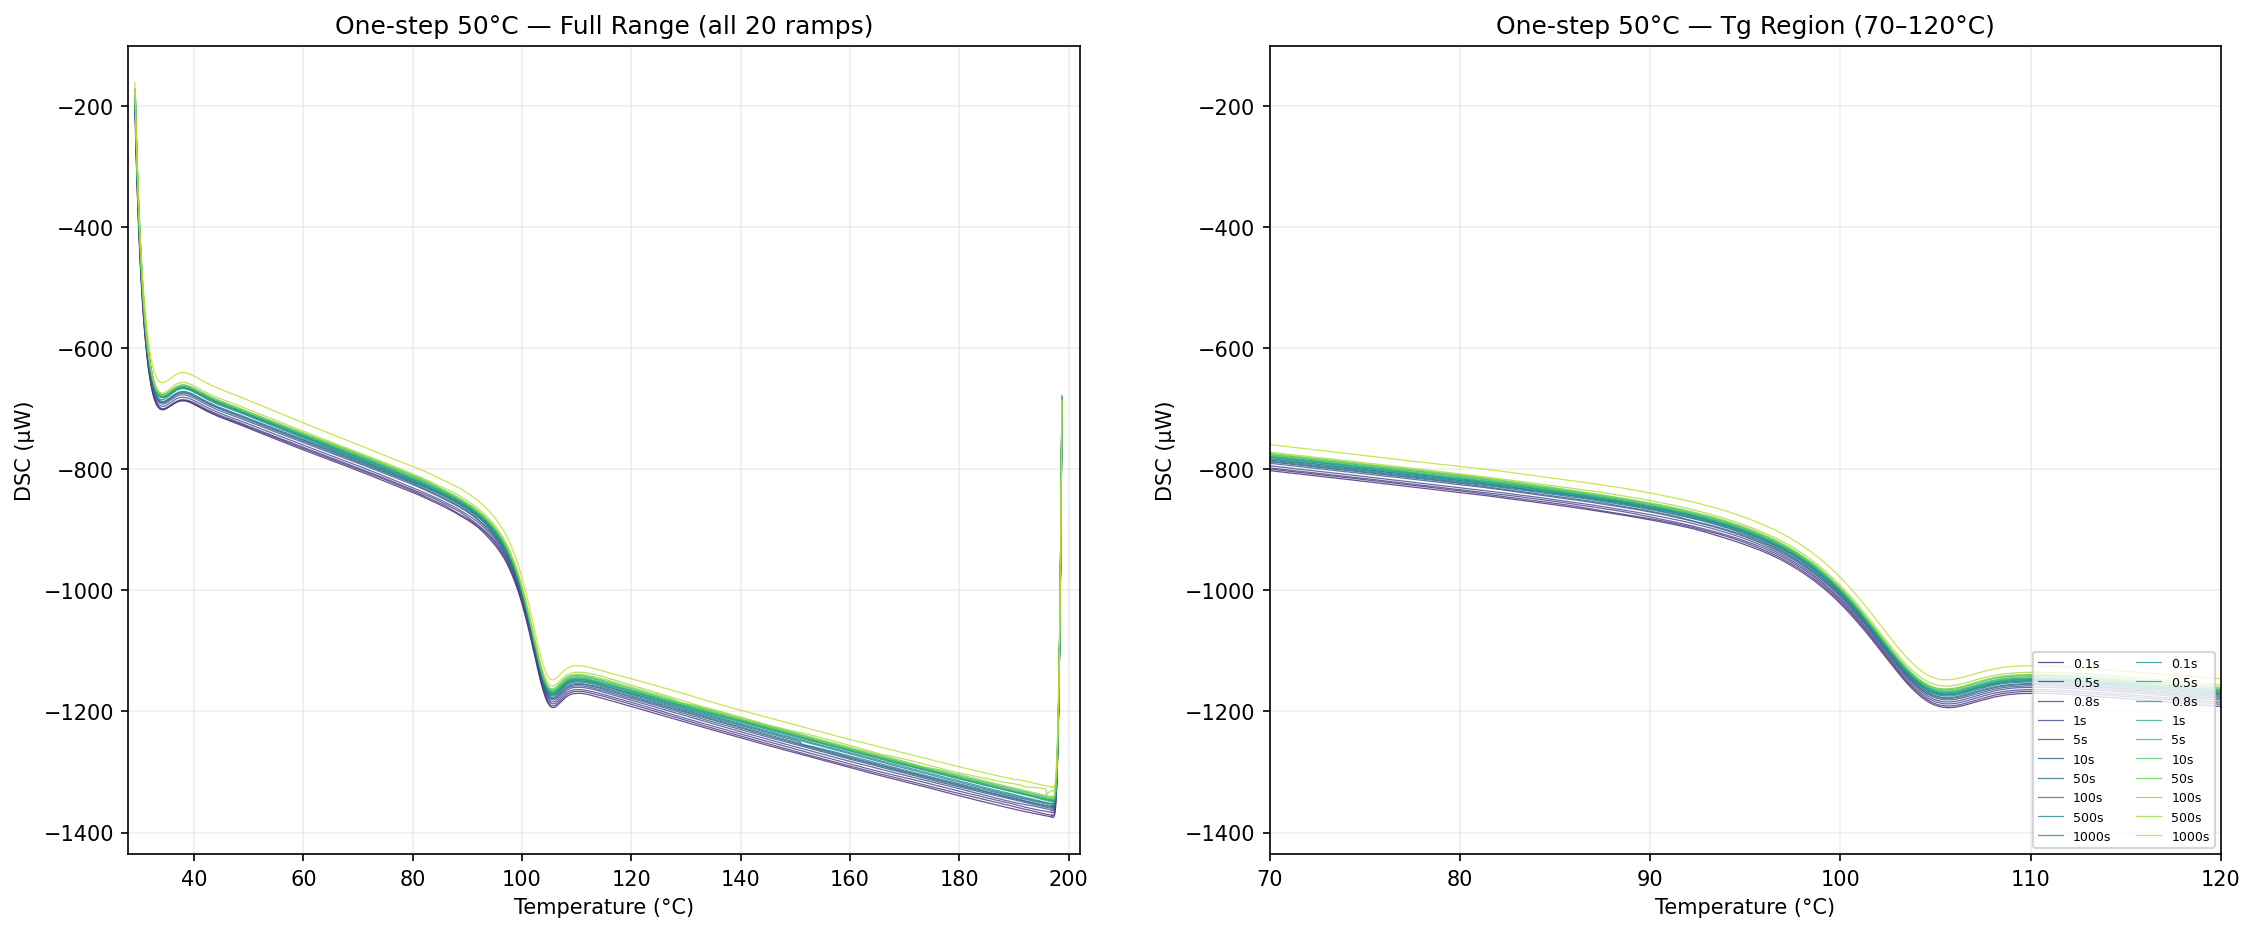
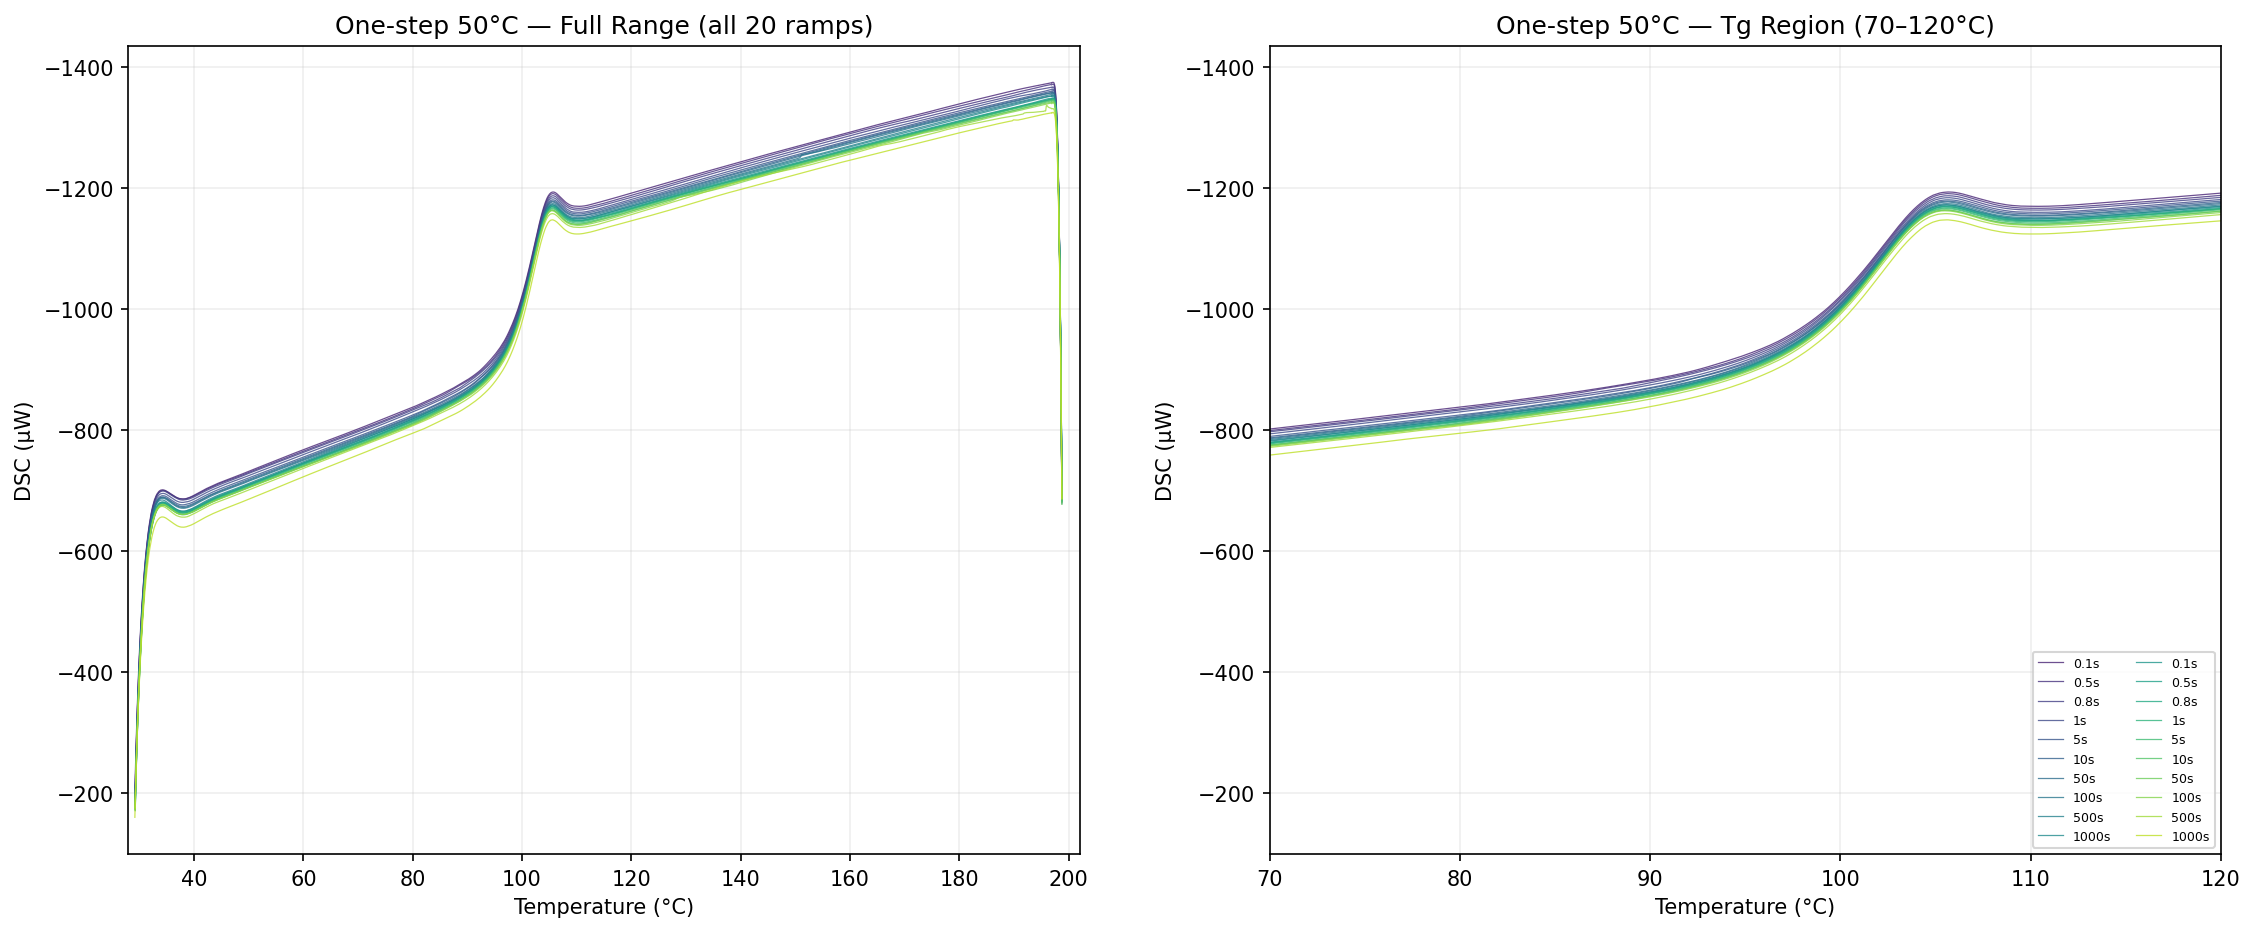
Fix reference state: use one-step 70°C 0.1s as as-cooled reference for all experiments; invert y-axis for DSC convention

diff --git a/src/export_enthalpy.py b/src/export_enthalpy.py
@@ -124,7 +124,26 @@ def find_liquid_onset(T_seg, DSC_seg, T_liq_fit_lo=110, T_liq_fit_hi=160, T_tg_l
     return np.nan
 
 
-def process_onestep(data_file, sheet, T_anneal, label, interp_empty):
+def compute_reference_integral(data_file, sheet, interp_empty):
+    """Compute reference integral from one-step 70°C ramp 1 (0.1s, as-cooled)."""
+    exp_data, _ = load_dsc_experiment(data_file, sheet=sheet)
+    T_exp = exp_data['Temp'].values
+    DSC_exp = exp_data['DSC'].values
+    t_exp = exp_data['Time'].values
+    ramps = detect_heating_ramps(T_exp, t_exp)
+    s, e = ramps[0]
+    T_seg = T_exp[s:e + 1]
+    DSC_seg = DSC_exp[s:e + 1]
+    T_onset = find_liquid_onset(T_seg, DSC_seg)
+    interp_dsc = interp1d(T_seg, DSC_seg, kind='linear', bounds_error=False, fill_value='extrapolate')
+    T_grid = np.arange(T_INT_LOW, T_onset + 0.01, 0.1)
+    delta_DSC = interp_dsc(T_grid) - interp_empty(T_grid)
+    ref_integral = trapezoid(delta_DSC, T_grid)
+    print(f"  Reference (one-step 70°C, ramp 1): integral={ref_integral:.2f}, T_onset={T_onset:.2f}°C")
+    return ref_integral
+
+
+def process_onestep(data_file, sheet, T_anneal, label, interp_empty, ref_integral):
     """Process one-step annealing and return enriched DataFrame."""
     exp_data, program = load_dsc_experiment(data_file, sheet=sheet)
     T_exp = exp_data['Temp'].values
@@ -180,11 +199,7 @@ def process_onestep(data_file, sheet, T_anneal, label, interp_empty):
             all_integrals.append(np.nan)
 
     integrals = np.array(all_integrals)
-    # Δh_i = (integral_i − integral_ref) × CONV
-    # reference = as-cooled state (ramp 1, shortest hold)
-    # Δh_ref ≡ 0, Δh_i > 0 for annealed states
-    ref = integrals[0]
-    dH = (integrals - ref) * CONV_JG
+    dH = (integrals - ref_integral) * CONV_JG
 
     # Determine cooling group (50s vs 500s) from program pattern
     n = len(conditions)
@@ -208,7 +223,7 @@ def process_onestep(data_file, sheet, T_anneal, label, interp_empty):
     return pd.DataFrame(results)
 
 
-def process_twosteps(data_file, sheet, label, interp_empty):
+def process_twosteps(data_file, sheet, label, interp_empty, ref_integral):
     """Process two-step annealing and return enriched DataFrame."""
     exp_data, program = load_dsc_experiment(data_file, sheet=sheet)
     T_exp = exp_data['Temp'].values
@@ -275,11 +290,7 @@ def process_twosteps(data_file, sheet, label, interp_empty):
             all_integrals.append(np.nan)
 
     integrals = np.array(all_integrals)
-    # Δh_i = (integral_i − integral_ref) × CONV
-    # reference = as-cooled state (ramp 1, shortest hold)
-    # Δh_ref ≡ 0, Δh_i > 0 for annealed states
-    ref = integrals[0]
-    dH = (integrals - ref) * CONV_JG
+    dH = (integrals - ref_integral) * CONV_JG
 
     # Determine T1 group (50s vs 500s)
     n = len(conditions)
@@ -306,7 +317,7 @@ def process_twosteps(data_file, sheet, label, interp_empty):
     return pd.DataFrame(results)
 
 
-def process_kovacs(data_file, sheet, label, interp_empty):
+def process_kovacs(data_file, sheet, label, interp_empty, ref_integral):
     """Process Kovacs up-jump annealing and return enriched DataFrame."""
     exp_data, program = load_dsc_experiment(data_file, sheet=sheet)
     T_exp = exp_data['Temp'].values
@@ -381,11 +392,7 @@ def process_kovacs(data_file, sheet, label, interp_empty):
             all_integrals.append(np.nan)
 
     integrals = np.array(all_integrals)
-    # Δh_i = (integral_i − integral_ref) × CONV
-    # reference = as-cooled state (ramp 1, shortest hold)
-    # Δh_ref ≡ 0, Δh_i > 0 for annealed states
-    ref = integrals[0]
-    dH = (integrals - ref) * CONV_JG
+    dH = (integrals - ref_integral) * CONV_JG
 
     n = len(conditions)
     midpoint = n // 2
@@ -424,12 +431,18 @@ def main():
     # Load empty baseline
     interp_empty = load_empty()
 
+    # Compute reference integral from one-step 70°C, ramp 1 (0.1s, as-cooled state)
+    print("\n[0] Computing reference integral (one-step 70°C, ramp 1 = as-cooled)...")
+    ref_integral = compute_reference_integral(
+        os.path.join(DATA_DIR, 'PS-onestep-02.xlsx'),
+        'PS-onestep-02', interp_empty)
+
     # ── One-step 50°C ──
     print("\n[1/4] One-step annealing 50°C ...")
     df_os_50 = process_onestep(
         os.path.join(DATA_DIR, 'PS-onestep-01.xlsx'),
         sheet='PS-onestep-01', T_anneal=50, label='One-step 50C',
-        interp_empty=interp_empty,
+        interp_empty=interp_empty, ref_integral=ref_integral,
     )
     out = os.path.join(RESULTS_DIR, 'enthalpy_onestep_50C.csv')
     df_os_50.to_csv(out, index=False, float_format='%.4f')
@@ -441,7 +454,7 @@ def main():
     df_os_70 = process_onestep(
         os.path.join(DATA_DIR, 'PS-onestep-02.xlsx'),
         sheet='PS-onestep-02', T_anneal=70, label='One-step 70C',
-        interp_empty=interp_empty,
+        interp_empty=interp_empty, ref_integral=ref_integral,
     )
     out = os.path.join(RESULTS_DIR, 'enthalpy_onestep_70C.csv')
     df_os_70.to_csv(out, index=False, float_format='%.4f')
@@ -453,7 +466,7 @@ def main():
     df_ts = process_twosteps(
         os.path.join(DATA_DIR, 'twosteps.xlsx'),
         sheet='PS-02', label='Two-step',
-        interp_empty=interp_empty,
+        interp_empty=interp_empty, ref_integral=ref_integral,
     )
     out = os.path.join(RESULTS_DIR, 'enthalpy_twosteps.csv')
     df_ts.to_csv(out, index=False, float_format='%.4f')
@@ -465,7 +478,7 @@ def main():
     df_kov = process_kovacs(
         os.path.join(DATA_DIR, 'pskovacs.xlsx'),
         sheet='PS-kovacs-01', label='Kovacs',
-        interp_empty=interp_empty,
+        interp_empty=interp_empty, ref_integral=ref_integral,
     )
     out = os.path.join(RESULTS_DIR, 'enthalpy_kovacs.csv')
     df_kov.to_csv(out, index=False, float_format='%.4f')
@@ -506,6 +519,7 @@ def plot_all_results(df_os_50, df_os_70, df_ts, df_kov):
         ax.set_ylabel('ΔH (J/g)')
         ax.set_title(title)
         ax.set_xscale('log')
+        ax.invert_yaxis()
         ax.legend(fontsize=9)
         ax.grid(True, alpha=0.3, which='both')
 
@@ -534,6 +548,7 @@ def plot_all_results(df_os_50, df_os_70, df_ts, df_kov):
     ax4.set_ylabel('ΔH (J/g)')
     ax4.set_title('Kovacs up-jump (80→90°C)')
     ax4.set_xscale('log')
+    ax4.invert_yaxis()
     ax4.legend(fontsize=9)
     ax4.grid(True, alpha=0.3, which='both')
 

diff --git a/src/plot_raw_curves.py b/src/plot_raw_curves.py
@@ -73,6 +73,7 @@ ax1.axhline(0, color='gray', linestyle='--', alpha=0.5)
 ax1.set_xlabel('Temperature (°C)')
 ax1.set_ylabel('DSC (µW)')
 ax1.set_title('Empty Crucible Baseline (ps-empty-01)')
+ax1.invert_yaxis()
 ax1.grid(True, alpha=0.3)
 fig1.savefig(os.path.join(OUT_DIR, 'raw_empty_crucible.png'), dpi=150, bbox_inches='tight')
 plt.close(fig1)
@@ -105,12 +106,14 @@ def plot_experiment(data_file, sheet, label, out_name, t2_times, t2_labels, n_ra
     ax_full.set_ylabel('DSC (µW)')
     ax_full.set_title(f'{label} — Full Range (all {len(ramps)} ramps)')
     ax_full.set_xlim(28, 202)
+    ax_full.invert_yaxis()
     ax_full.grid(True, alpha=0.2)
 
     ax_tg.set_xlabel('Temperature (°C)')
     ax_tg.set_ylabel('DSC (µW)')
     ax_tg.set_title(f'{label} — Tg Region (70–120°C)')
     ax_tg.set_xlim(70, 120)
+    ax_tg.invert_yaxis()
     ax_tg.legend(fontsize=6, ncol=2, loc='lower right')
     ax_tg.grid(True, alpha=0.2)
 
